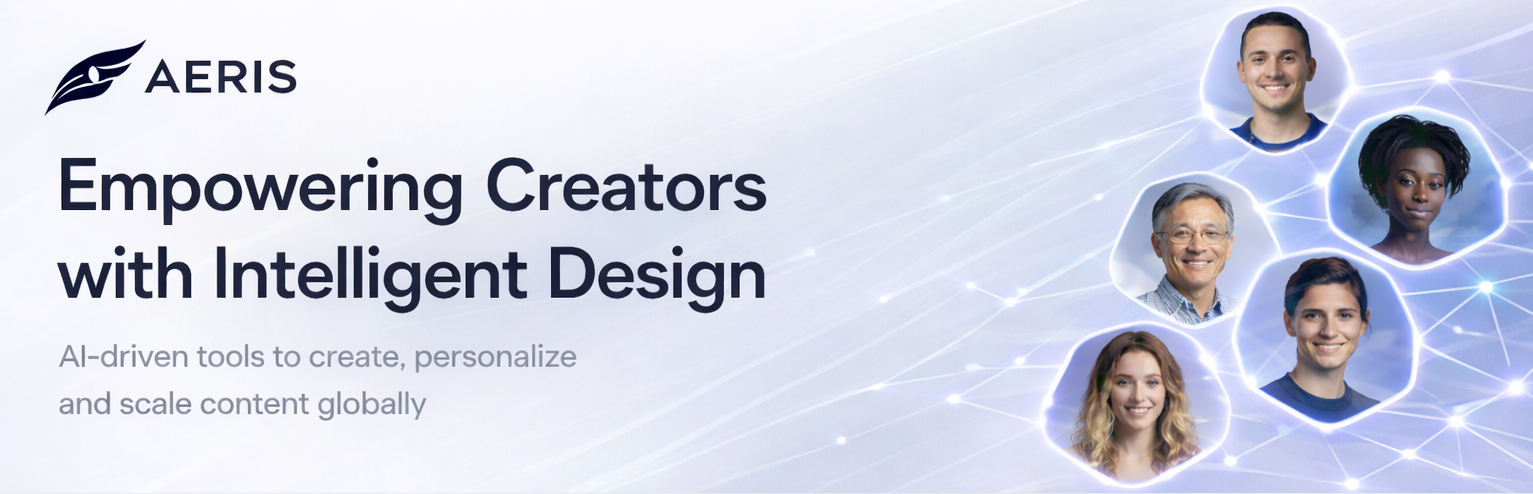
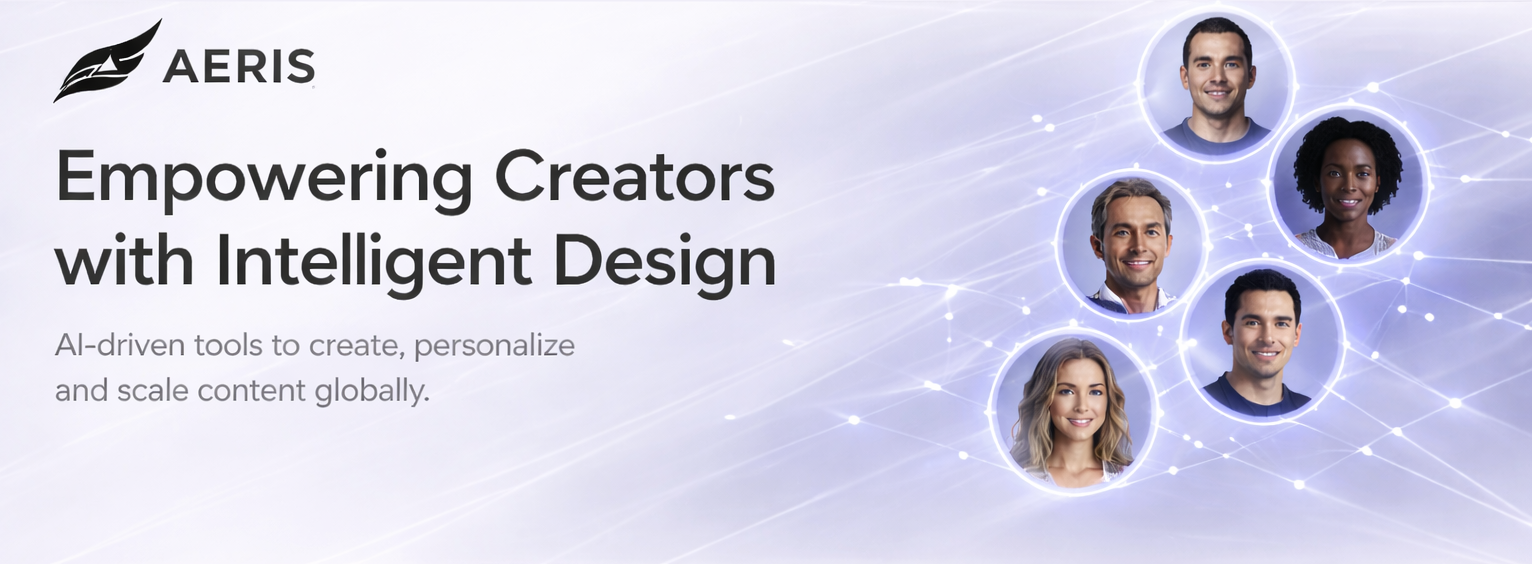
fix

diff --git a/aeris-v3/src/app/globals.css b/aeris-v3/src/app/globals.css
@@ -3574,6 +3574,7 @@ select:focus {
   margin: 60px 0;
   padding: 0;
   overflow: hidden;
+  position: relative;
 }
 
 .communityBanner__wrapper {
@@ -3581,6 +3582,45 @@ select:focus {
   max-width: 100%;
   margin: 0 auto;
   position: relative;
+  overflow: hidden;
+  border-radius: 8px;
+  box-shadow: 0 20px 60px rgba(0, 0, 0, 0.3);
+}
+
+/* Animated gradient overlay */
+.communityBanner__wrapper::before {
+  content: '';
+  position: absolute;
+  top: 0;
+  left: -100%;
+  width: 100%;
+  height: 100%;
+  background: linear-gradient(
+    90deg,
+    transparent 0%,
+    rgba(102, 126, 234, 0.3) 50%,
+    transparent 100%
+  );
+  z-index: 2;
+  animation: shimmer 3s infinite;
+  pointer-events: none;
+}
+
+/* Subtle vignette effect */
+.communityBanner__wrapper::after {
+  content: '';
+  position: absolute;
+  top: 0;
+  left: 0;
+  width: 100%;
+  height: 100%;
+  background: radial-gradient(
+    ellipse at center,
+    transparent 0%,
+    rgba(0, 0, 0, 0.2) 100%
+  );
+  z-index: 1;
+  pointer-events: none;
 }
 
 .communityBanner__image {
@@ -3589,11 +3629,103 @@ select:focus {
   display: block;
   object-fit: cover;
   border-radius: 0;
+  filter: grayscale(50%) brightness(0.92) contrast(1.15) saturate(1.2);
+  transition: all 0.6s cubic-bezier(0.4, 0, 0.2, 1);
+  animation: fadeInScale 1.2s ease-out;
+  transform-origin: center center;
+}
+
+.communityBanner__wrapper:hover .communityBanner__image {
+  filter: grayscale(20%) brightness(1.05) contrast(1.1) saturate(1.4);
+  transform: scale(1.02);
+}
+
+/* Shimmer animation */
+@keyframes shimmer {
+  0% {
+    left: -100%;
+  }
+  100% {
+    left: 100%;
+  }
+}
+
+/* Fade in and scale animation */
+@keyframes fadeInScale {
+  0% {
+    opacity: 0;
+    transform: scale(1.1);
+  }
+  100% {
+    opacity: 1;
+    transform: scale(1);
+  }
+}
+
+/* Floating particles effect */
+.communityBanner::before,
+.communityBanner::after {
+  content: '';
+  position: absolute;
+  border-radius: 50%;
+  background: linear-gradient(135deg, rgba(102, 126, 234, 0.4), rgba(118, 75, 162, 0.4));
+  filter: blur(60px);
+  opacity: 0.3;
+  animation: float 6s ease-in-out infinite;
+  pointer-events: none;
+  z-index: 0;
+}
+
+.communityBanner::before {
+  width: 300px;
+  height: 300px;
+  top: -150px;
+  left: -100px;
+  animation-delay: 0s;
+}
+
+.communityBanner::after {
+  width: 250px;
+  height: 250px;
+  bottom: -125px;
+  right: -80px;
+  animation-delay: 3s;
+}
+
+@keyframes float {
+  0%, 100% {
+    transform: translate(0, 0) scale(1);
+    opacity: 0.3;
+  }
+  50% {
+    transform: translate(30px, -30px) scale(1.1);
+    opacity: 0.5;
+  }
 }
 
 @media (max-width: 768px) {
   .communityBanner {
     margin: 40px 0;
+  }
+
+  .communityBanner__wrapper {
+    border-radius: 0;
+  }
+
+  .communityBanner::before,
+  .communityBanner::after {
+    width: 150px;
+    height: 150px;
+  }
+
+  .communityBanner::before {
+    top: -75px;
+    left: -50px;
+  }
+
+  .communityBanner::after {
+    bottom: -75px;
+    right: -40px;
   }
 }
 
